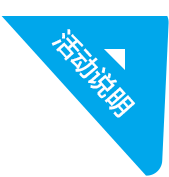
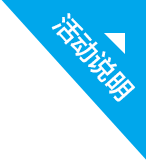
fix

diff --git a/apps/activity/2017-08-16/components/mobile.js b/apps/activity/2017-08-16/components/mobile.js
@@ -58,7 +58,7 @@ class Mobile extends React.Component {
         let {close,showLayer,showExplain} =this.state;
         let { isLogin, loginHandler, timestamp,ladderData,personData,total } = this.props;
         
-        let actExplain = <div styleName="actExplain" style={{"top":Browser.inApp?"0px":"66px"}}>
+        let actExplain = <div styleName="actExplain">
             <div styleName="actTitle">活动说明</div>
             <p>1.活动期间，投资转让项目，不能参与本次活动；</p>
             <p>2.投资等额标时，＞18个月的项目按18个月计算年化投资额；</p>
@@ -130,7 +130,7 @@ class Mobile extends React.Component {
         return <div styleName="mobile" onClick={this.closeLayerHandler}>
             {Browser.inApp ? null : <MobileHeader bgColor="rgba(0,0,0,0.5)" />}
             <div styleName="banner"></div>
-            <div styleName="activityExplain" onClick={this.triggerExplain}></div>
+            <div styleName="activityExplain" onClick={this.triggerExplain} style={{"top":Browser.inApp?"0px":"66px"}}></div>
             <div styleName="layer" onClick={this.showLayerHandler}>
                 <div styleName="layerText" style={{"display":showLayer?"block":"none"}}>邀请人及被邀请人，且团队人数≥2人；<br/>例如：A邀请的好友有B、C、D、E，那么ABCDE算一个团队。</div>
             </div>

diff --git a/apps/activity/lib/components/pop-start.js b/apps/activity/lib/components/pop-start.js
@@ -10,7 +10,7 @@ class PopStartPC extends React.Component {
     }
     componentDidMount() {
         let timestamp = this.props.timestamp;//当前时间
-        let now = new Date("2017/08/15 23:59:59").getTime();//活动开启时间
+        let now = 1502812799000;//活动开启时间
         if (timestamp > now) {
             this.setState({ start: false })
         } else {
@@ -44,7 +44,7 @@ class PopStartMobile extends React.Component {
     }
     componentDidMount() {
         let timestamp = this.props.timestamp;//当前时间
-        let now = new Date("2017/08/15 23:59:59").getTime();//活动开启时间
+        let now = 1502812799000;//活动开启时间
         
         if (timestamp > now) {
             this.setState({ start: false })

diff --git a/apps/activity/2017-08-16/css/mobile.css b/apps/activity/2017-08-16/css/mobile.css
@@ -8,12 +8,12 @@
     height: 280px;
 }
 .activityExplain{
-    width: 170px;
-    height: 178px;
+    width: 146px;
+    height: 161px;
     background: url('../images/mobile/activityExplain.png') no-repeat;
     position: absolute;
     top: 0;
-    right: -20px;
+    right: 0;
     z-index: 30;
 }
 .peopleTitle{
